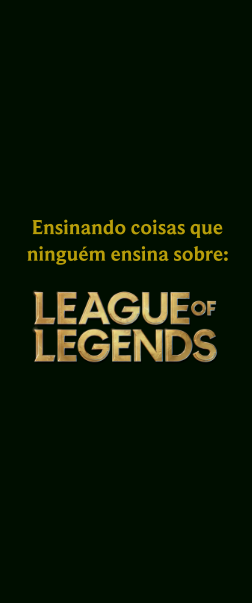
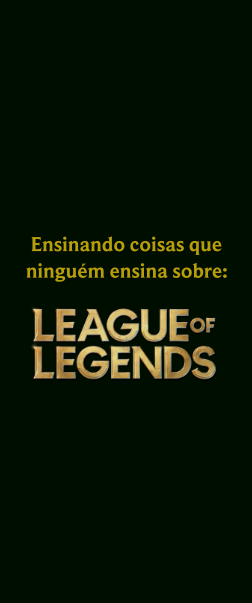
change
change

Changed region(s): [[0.1111, 0.3582, 0.9167, 0.6269]]

diff --git a/index.html b/index.html
@@ -148,7 +148,7 @@
 
     /* media queries */
 
-    @media all and (min-width: 0px) and (max-width: 1250px) {
+    @media all and (min-width: 0px) and (max-width: 700px) {
       #nav {
         display: none;
       }
@@ -158,11 +158,7 @@
       }
     }
 
-     .welcome{
-       position:absolute;
-       top:auto;
-       left:auto;
-     }
+   
 
   </style>
 </head>
@@ -186,11 +182,12 @@
       <li>Sobre mim</li>
       <li>Contato</li>
     </ul>
-<div class="welcome"><img src="img/matawelcome.png" alt="boas-vindas!"></div>
+
     <div class="button1" id="hello">
       <span></span>
     </div>
   </div>
+ 
 </body>
 <script>$(document).ready(function () {
     $(".button1").click(function () {
